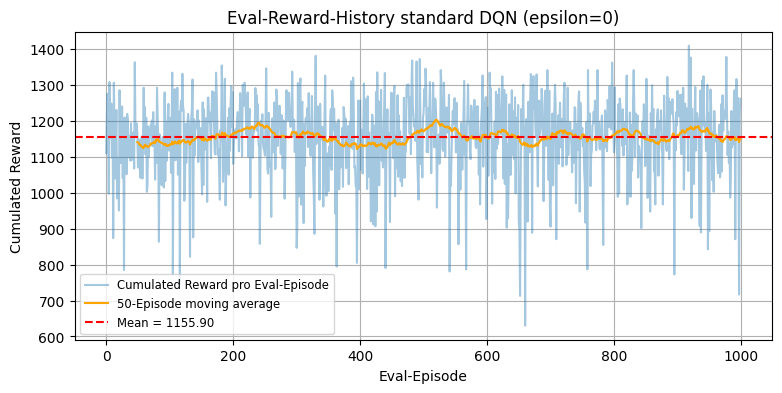
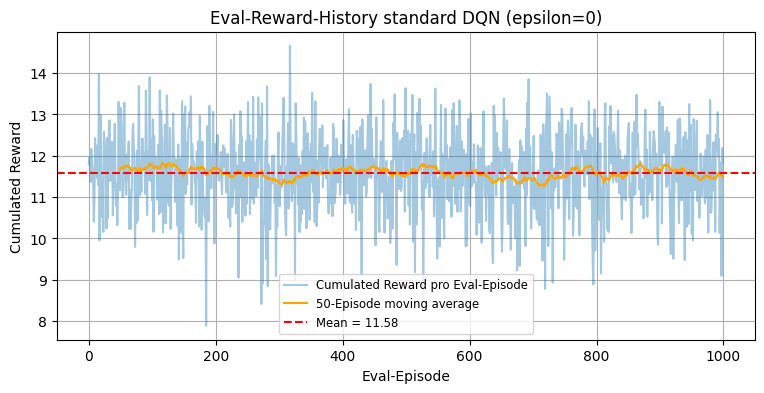
Bericht überarbeitet

diff --git a/Bericht/sections/experiments.tex b/Bericht/sections/experiments.tex
@@ -11,18 +11,10 @@ action masking, the target-network soft update, and the reject-biased $\epsilon$
 described earlier.
 
 \textbf{Parameters.} Unless noted otherwise we use reject-bias $\alpha=0.75$, $\epsilon$ decaying from 
-$1.0$ to $0.1$ over $20{,}000$ steps, a replay buffer of $50{,}000$ transitions with a $500$-step warm-up, 
+$1.0$ to $0.1$ over $50{,}000$ steps, a replay buffer of $50{,}000$ transitions with a $500$-step warm-up, 
 batch size $64$ and one training step every $4$ environment steps. We evaluate the agent's monotonicity
 behavior every $100$ training episodes by sampling $5$ trajectories, creating pairs of states as described 
 in Section~\ref{subsec:monotonicity}, and counting the number of monotonicity violations in these pairs.
-
-One can see one example of the training results in Figure~\ref{fig:standard_dqn} for the first $2000$ epsiodes.
-\begin{figure}[ht]
-	\centering
-	\includegraphics[width=\textwidth]{grafiken/Experiments/standard_DQN_mono.png}
-	\caption{Standard-DQN and its monotonicity ratios for SB05, $T_d = 50$ and the first $2000$ episodes}
-	\label{fig:standard_dqn}
-\end{figure}
 
 \textbf{Monotonicity behavior.} The Standard-DQN without any structural knowledge about the
 problem, still manages to learn a policy that is mostly monotone, with only a few violations. Especially
@@ -37,19 +29,20 @@ The monotonicity in $t$ and $r$ is learned well from the beginning on and achiev
 For the mixed pairs the monotonicity is learned very well from the beginning on.
 
 
-\textbf{Evluation.} After training, the agent's performance is evaluated. Note that the network weights does not
-change anymore here. We report the average performance on $10{,}000$ episodes with $\epsilon = 0$.
-The training and evaluation phase is shown iun Figures \ref{fig:standard_dqn_training} and \ref{fig:standard_dqn_eval}
-
+\textbf{Evaluation.} After training, the agent's performance is evaluated. Note that the network weights does not
+change anymore here. We report the average performance on $10{,}000$ episodes with $\epsilon = 0$. 
+Monotonicity is evaluated by running the monotonicity tests for the different parameters, each with $10{,}000$ pairs.
+The training and evaluation phase, together with its monotonicity behaviour is shown in Figures \ref{fig:standard_dqn_training} and \ref{fig:standard_dqn_eval}
+for the benchmark instance SB05 with $T_d=50$.
 \begin{figure}[ht]
 	\centering
-	\includegraphics[width=\textwidth]{grafiken/Experiments/standard_DQN_train_10000_SB5.png}
+	\includegraphics[scale=0.5]{grafiken/Experiments/standard_DQN_mono_SB5_all.png}
 	\caption{SB05, $T_d = 50$, $10000$ episodes training}
 	\label{fig:standard_dqn_training}
 \end{figure}
 \begin{figure}[ht]
 	\centering
-	\includegraphics[width=\textwidth]{grafiken/Experiments/standard_DQN_eval_SB5.png}
+	\includegraphics[scale=0.5]{grafiken/Experiments/standard_DQN_eval_SB5.png}
 	\caption{SB05, $T_d = 50$, evaluation phase}
 	\label{fig:standard_dqn_eval}
 \end{figure}
@@ -57,13 +50,13 @@ The training and evaluation phase is shown iun Figures \ref{fig:standard_dqn_tra
 The Lattice-DQN is built up exactly as described in Section~\ref{subsec:lattice-architecture}.
 
 \textbf{Parameters.} We use $P=8$ keypoints for the calibrators, and ensemble widths $U_1=4, U_2=2$ for the two layers of lattices.
-The parameters for th training scheme are the same as fr the Standard-DQN.
+The parameters for the training scheme are the same as for the Standard-DQN.
 
 Not surprsingly the monotonicity behavior is perfect from the beginning on, as the network architecture enforces monotonicity by design.
 Nevertheless, the training is slower, even compared with a Standard-DQN with the same number of parameters, as the network is more complex and has to learn the same policy with a more constrained function class.
 
 \subsection{Comparison}
-In \ref{sec:lattice-params} we determined the exact number of parameters for the Lattice-DQN architecture dependent on the number of resources $K$, calibrator keypoints $P$, and ensemble widths $U_1$ and $U_2$.
+In \ref{subsec:lattice-params} we determined the exact number of parameters for the Lattice-DQN architecture dependent on the number of resources $K$, calibrator keypoints $P$, and ensemble widths $U_1$ and $U_2$.
 We fix the number of keypoints and the ensemble widths, hence the number of parameters is only dependent on the number of resources $K$.
 To obtain a fair comparison, we adapt the layer sizes of the Standard-DQN to have the same number of parameters in both 
 architectures. We compare the training results in the follwing table.

diff --git a/Bericht/sections/introduction.tex b/Bericht/sections/introduction.tex
@@ -84,3 +84,21 @@ In summary, this report combines the \acs{mdp} formulation of the \acs{drausp} i
 \textcite{drausp_lion18} with value-based deep \acs{rl} \parencite{watkins1992,mnih2015} to scale
 beyond exact dynamic programming, and further constrains the learned $Q$-function to be
 structurally monotonic using the Deep Lattice Network architecture of \textcite{you2017}.
+
+\subsection{Outline}
+\label{subsec:outline}
+
+The remainder of this report is structured as follows. Section~\ref{sec:rl-approach} 
+formulates the \acs{drausp} as an \acs{mdp} and
+develops the Q-learning-based solution approach, including the standard \acs{dqn} baseline.
+The $Q$-learning's structure is explained and two adaptions are introduced which lead to
+better results regarding performance and speed of convergence.
+Section~\ref{sec:monotonicity} motivates the monotonicity relations inherent to the problem,
+introduces a test to measure how well a $Q$-network respects them, and presents the Lattice-based
+architecture that enforces them structurally. The exact structure of the applied Deep Lattice Network
+is reported and the complexity of the network is specified.
+Section~\ref{sec:experiments} evaluates the standard
+\acs{dqn} and the Lattice-\acs{dqn} on \acs{drausp} benchmark instances and compares their
+performance and monotonicity behavior. Section~\ref{sec:conclusion} summarizes our findings and
+discusses limitations and future work.
+
